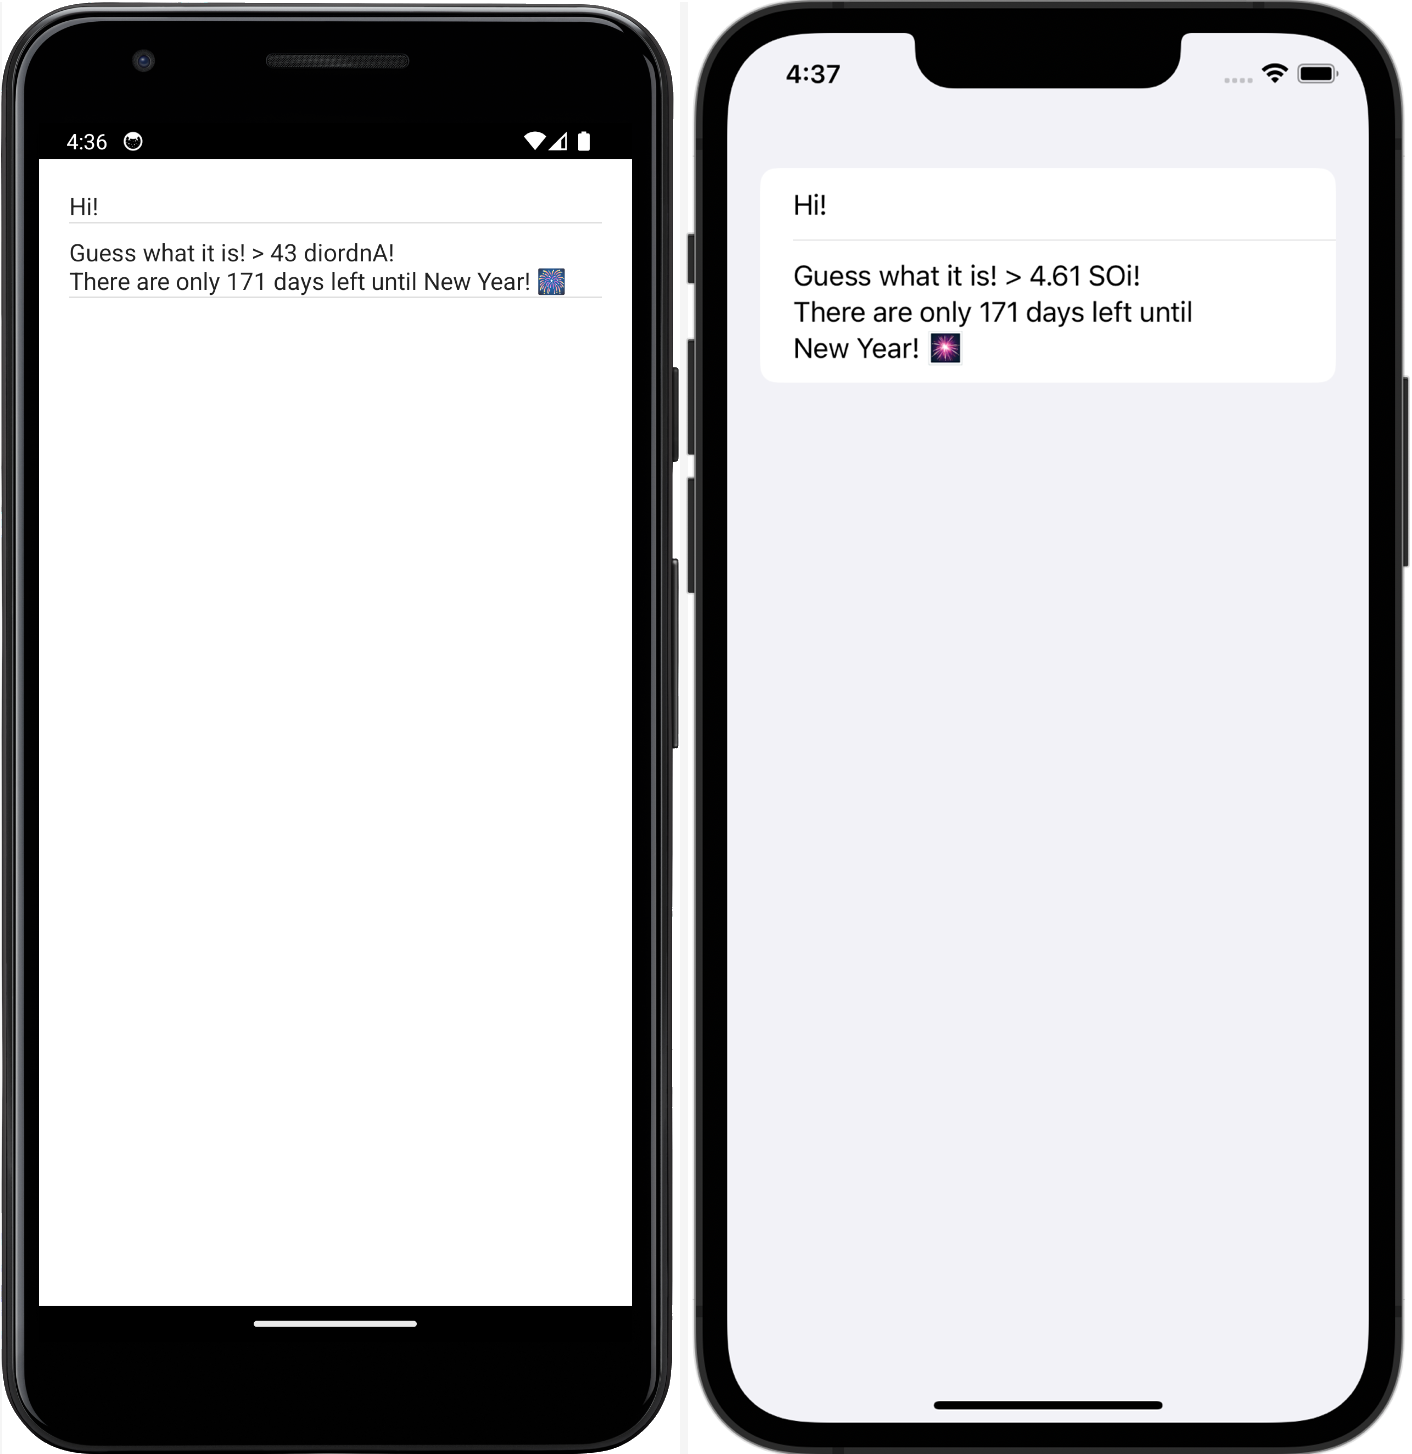
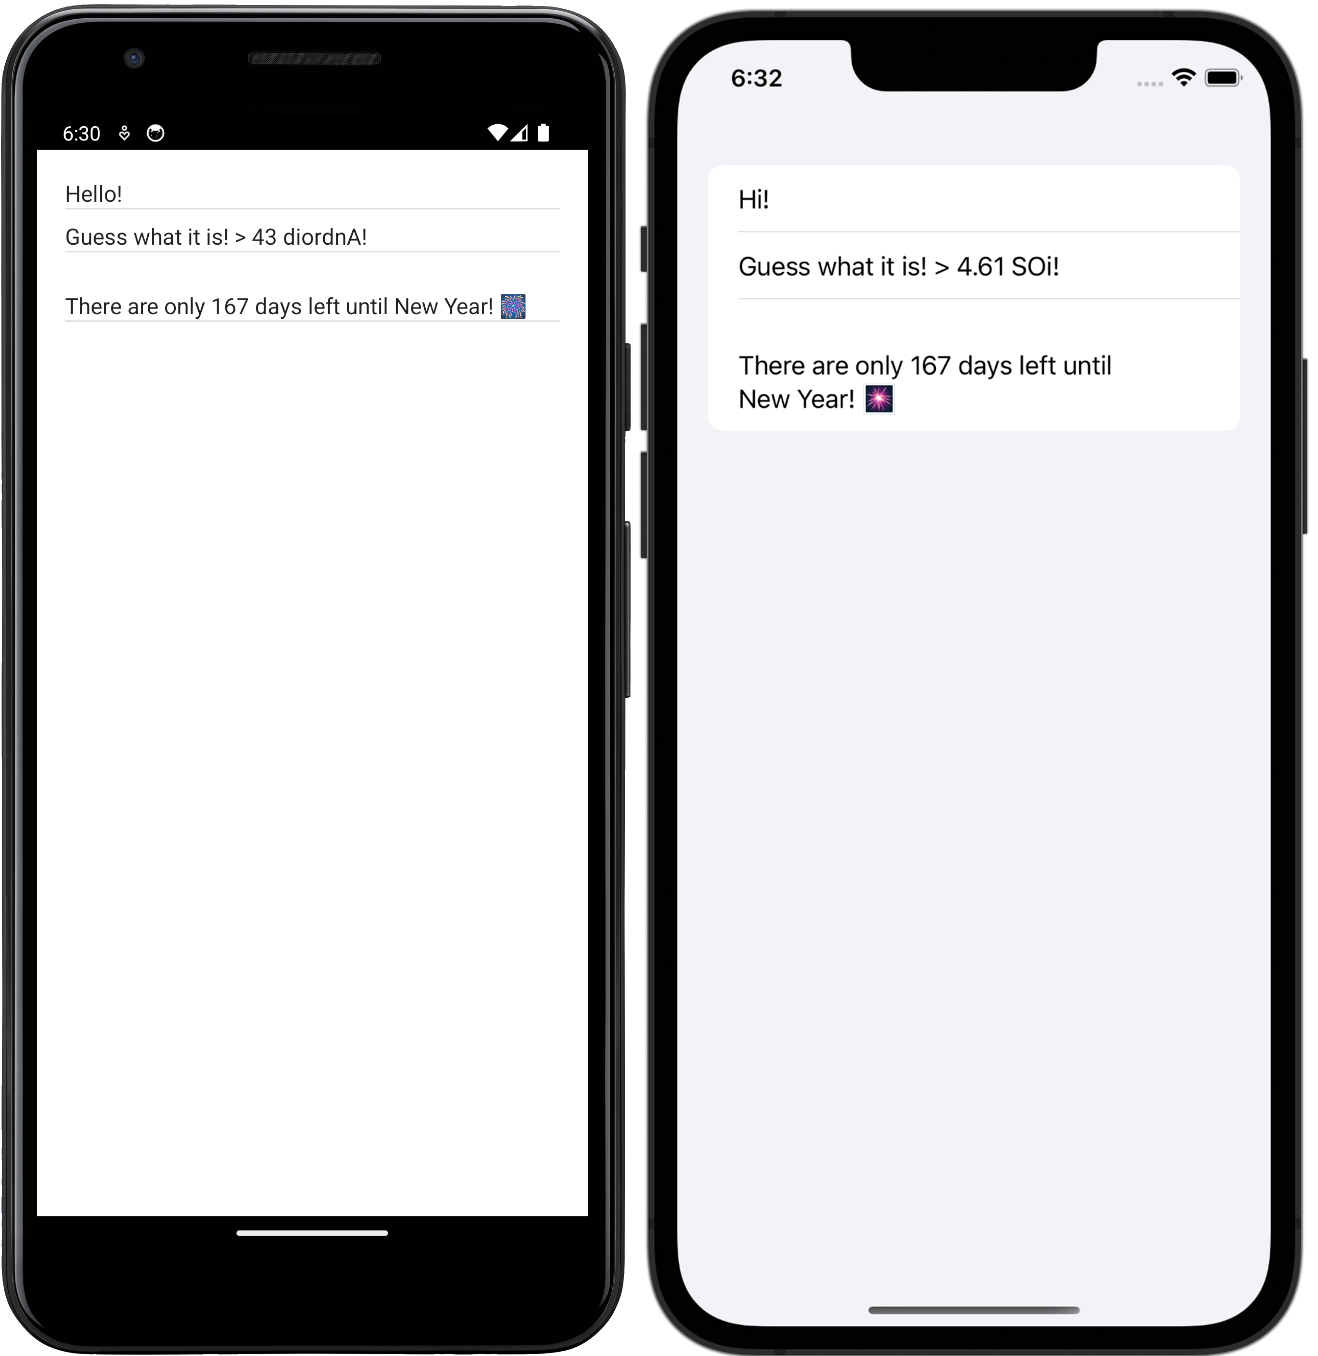
update: first suggestions

diff --git a/docs/topics/multiplatform-mobile/multiplatform-mobile-create-first-app.md b/docs/topics/multiplatform-mobile/multiplatform-mobile-create-first-app.md
@@ -82,14 +82,19 @@ IDE will show a warning:
 1. Open the `Greeting.kt` file and try to access one of the Java classes, `java.util.Random().nextBoolean()`, inside the `greet()` function:
 
    ```kotlin
+   import java.util.Random
+   
    fun greet(): String {
        val firstWord = if (Random().nextBoolean()) "Hi!" else "Hello!"
    }
    ```
 
    Android Studio highlights that `Random` class is unresolved because you can't call specific Java functions from the common Kotlin code.
-2. Follow IDE's suggestions and replace it with `kotlin.random.Random` from the Kotlin standard library. The code now compiles successfully.
-3. Add a bit of unpredictability to the greeting:
+2. Follow IDE's suggestions and replace it with `kotlin.random.Random` from the Kotlin standard library.
+   This is a multiplatform library that works on all platforms and is included automatically as a dependency.
+   The code should now compile successfully.
+3. Add a bit of unpredictability to the greeting. Update the shared code with the `reversed()` function
+   from the Kotlin standard library for reversing the text:
 
     ```kotlin
     import kotlin.random.Random
@@ -100,8 +105,7 @@ IDE will show a warning:
         fun greet(): String {
             val firstWord = if (Random.nextBoolean()) "Hi!" else "Hello!"
 
-            return firstWord + "\n" +
-                    "Guess what it is! > ${platform.name.reversed()}!"
+            return "$firstWord\nGuess what it is! > ${platform.name.reversed()}!"
         }
     }
     ```
@@ -115,8 +119,8 @@ The common source set can define an interface or an expected declaration. Then e
 in this case `androidMain` and `iosMain`, has to provide actual platform-specific implementations for the expected
 declarations from the common source set.
 
-While building the code for a specific target,
-the Kotlin compiler will automatically substitute the expected declarations with the actual ones for this target.
+While building the code for a specific target, the Kotlin compiler will automatically substitute
+the invocation of the expected declarations with the invocation of the actual implementation for this target.
 
 1. When creating a project in Android Studio, you get a template with the `Platform.kt` file in the `commonMain` module:
 
@@ -169,9 +173,9 @@ the Kotlin compiler will automatically substitute the expected declarations with
     actual fun getPlatform(): Platform = IOSPlatform()
     ```
 
-During compilation, the Kotlin compiler automatically substitutes the expected declaration of the `getPlatform()` function
-with its correct actual implementations.
-The Android app uses the `AndroidPlatform` implementation, while the iOS app uses the `IOSPlatform` implementation.
+During compilation, Kotlin automatically substitutes the invocation of the `getPlatform()` expected declaration
+with the invocation of its correct actual implementation.
+The Android app uses the `AndroidPlatform()` implementation, while the iOS app uses the `IOSPlatform()` implementation.
 
 Now you can run the apps to ensure everything works.
 
@@ -216,8 +220,7 @@ such as properties and classes. Let's implement an expected property:
     fun greet(): String {
         val firstWord = if (Random.nextBoolean()) "Hi!" else "Hello!"
     
-        return firstWord + " [$num]\n" +
-                "Guess what it is! > ${platform.name.reversed()}!"
+        return "$firstWord [$num]\nGuess what it is! > ${platform.name.reversed()}!"
     }
     ```
 

diff --git a/docs/topics/multiplatform-mobile/multiplatform-mobile-upgrade-app.md b/docs/topics/multiplatform-mobile/multiplatform-mobile-upgrade-app.md
@@ -186,16 +186,14 @@ data class RocketLaunch (
     class Greeting {
         // ...
         @Throws(Exception::class)
-        suspend fun greet(): String {
+        suspend fun greet(): List<String> = buildList {
             val rockets: List<RocketLaunch> =
                 httpClient.get("https://api.spacexdata.com/v4/launches").body()
             val lastSuccessLaunch = rockets.last { it.launchSuccess == true }
             add(if (Random.nextBoolean()) "Hi!" else "Hello!")
-            add(
-                "Guess what it is! > ${platform.name.reversed()}!" +
-                        "\nThere are only ${daysUntilNewYear()} days left until New Year! 🎆" +
-                        "\nThe last successful launch was ${lastSuccessLaunch.launchDateUTC} 🚀"
-            )
+            add("Guess what it is! > ${platform.name.reversed()}!")
+            add("\nThere are only ${daysUntilNewYear()} days left until New Year! 🎆")
+            add("\nThe last successful launch was ${lastSuccessLaunch.launchDateUTC} 🚀")
         }
     }
     ```

diff --git a/docs/topics/multiplatform-mobile/multiplatform-mobile-dependencies.md b/docs/topics/multiplatform-mobile/multiplatform-mobile-dependencies.md
@@ -80,13 +80,11 @@ multiplatform support, is the most convenient way to work with dates in your sha
     ```kotlin
     class Greeting {
         private val platform: Platform = getPlatform()
-         
+   
         fun greet(): List<String> = buildList {
             add(if (Random.nextBoolean()) "Hi!" else "Hello!")
-            add(
-                "Guess what it is! > ${platform.name.reversed()}!" +
-                        "\nThere are only ${daysUntilNewYear()} days left until New Year! 🎆"
-            )
+            add("Guess what it is! > ${platform.name.reversed()}!")
+            add("\nThere are only ${daysUntilNewYear()} days left until New Year! 🎆")
         }
     }
     ```

diff --git a/docs/topics/multiplatform-mobile/multiplatform-mobile-update-ui.md b/docs/topics/multiplatform-mobile/multiplatform-mobile-update-ui.md
@@ -54,7 +54,8 @@ Make some changes and see how it is reflected in the UI:
    }
    ```
 
-   Here the `LazyColumn` composable shows the list of `Text` items.
+   Here the `LazyColumn` composable shows the list of `Text` items, adds padding around the content and a space between the list items. 
+   
 5. Follow Android Studio's suggestions to import the missing dependencies.
 6. Update the preview as well, passing a list as an argument:
    
